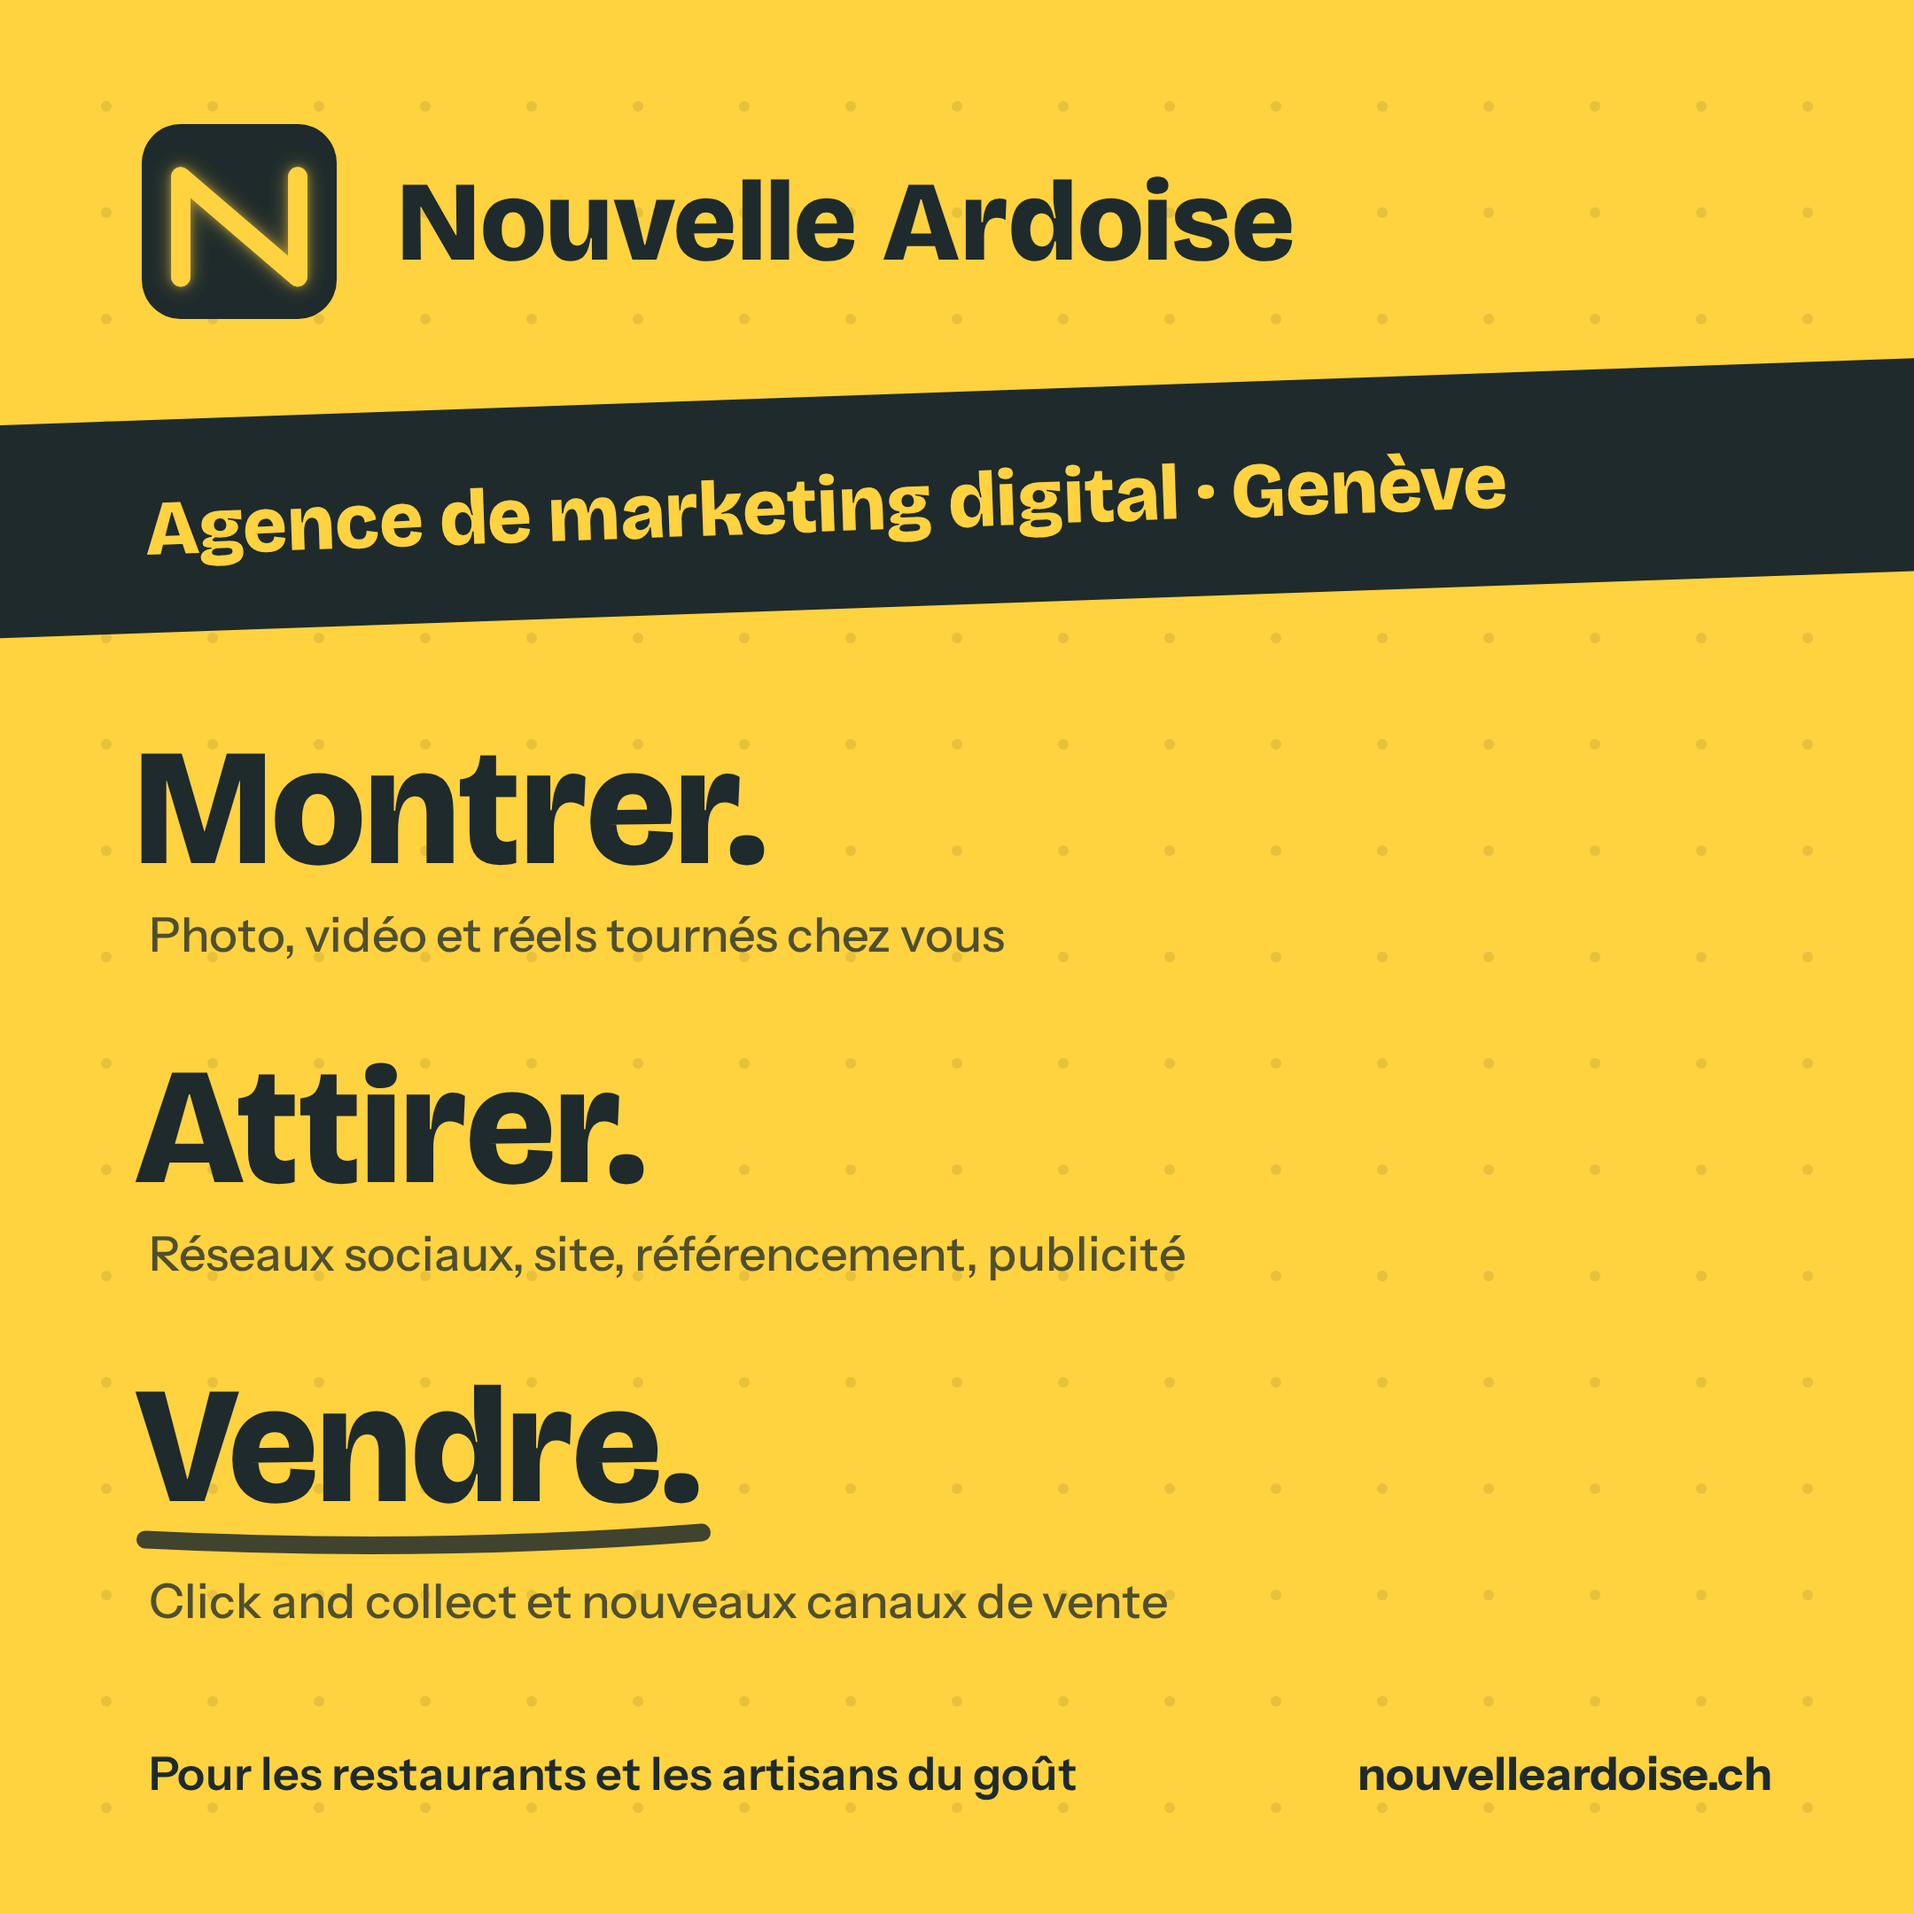
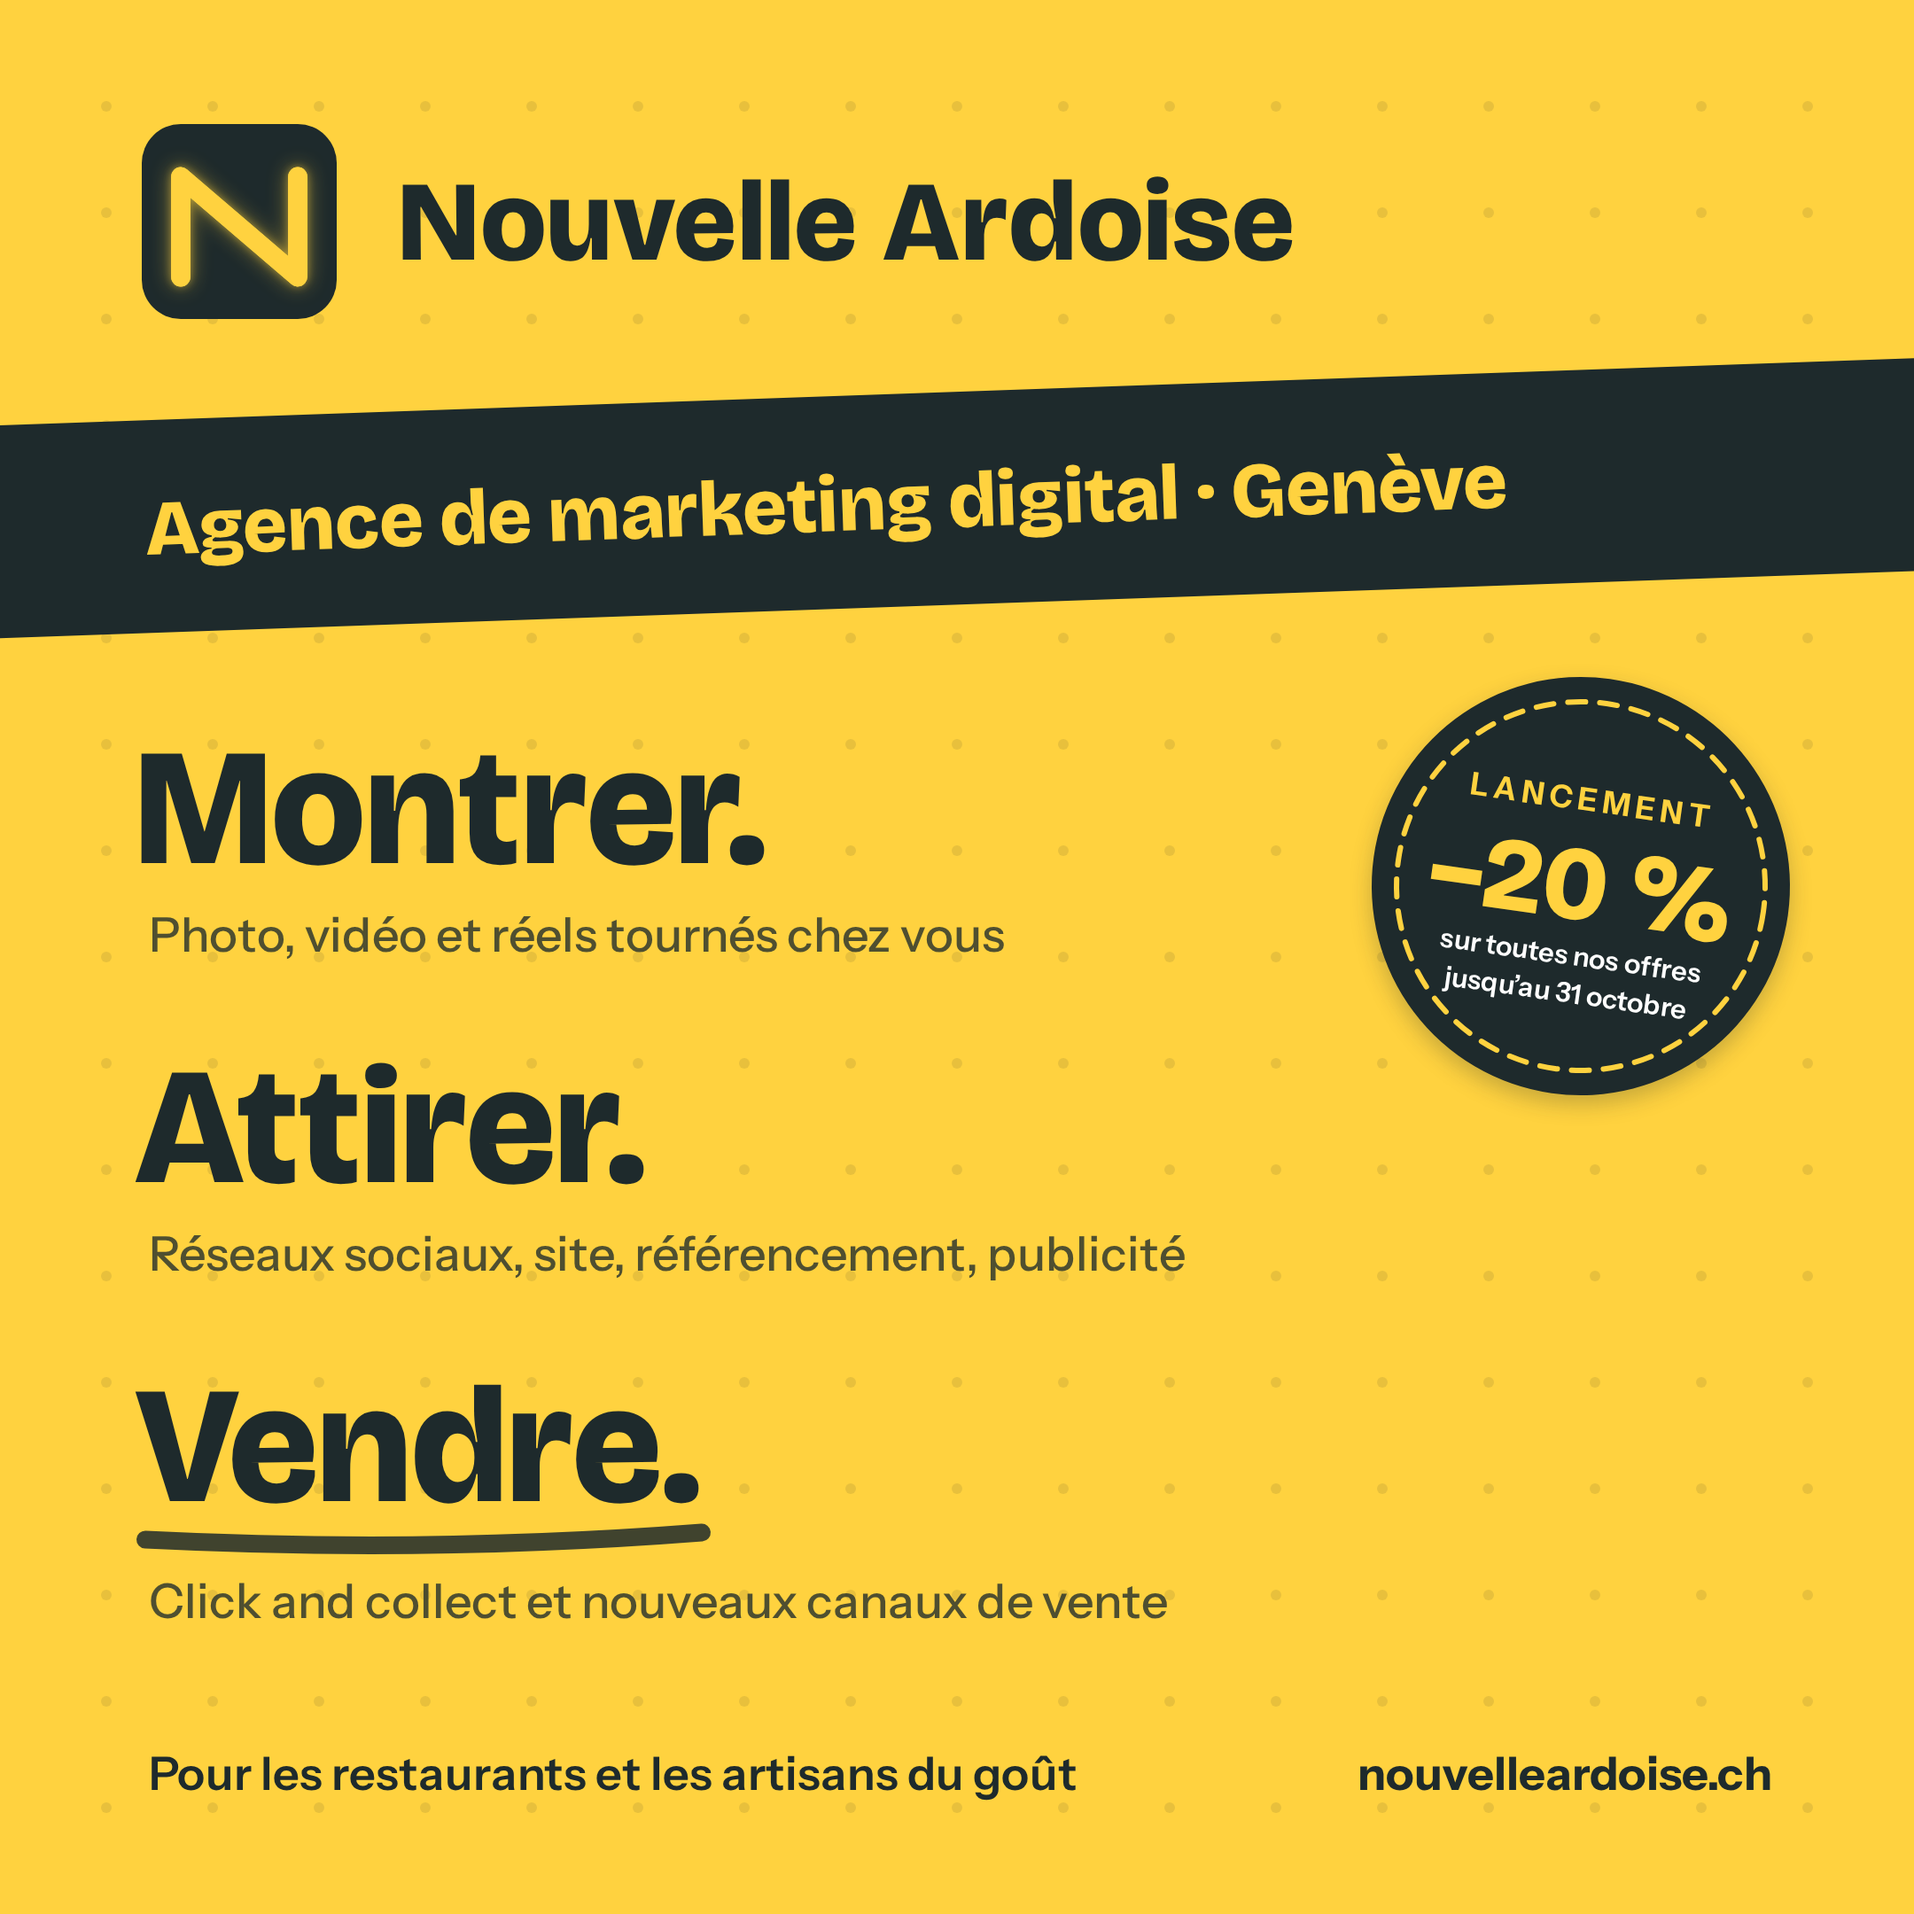
Image officielle : pastille offre de lancement –20 % jusqu'au 31 octobre
Claude-Session: https://claude.ai/code/session_01Na8BpyZzW6x6KHtXhCHeFX

Changed region(s): [[0.7134, 0.3412, 0.9616, 0.5894]]

diff --git a/marketing/kit-lancement/_sources/presentation.html b/marketing/kit-lancement/_sources/presentation.html
@@ -61,7 +61,7 @@ function dessiner() {
   const haut = yb + (compact ? 120 : 140) + (compact ? 50 : 80);
   const bas = H - (compact ? 130 : 170);
   const bloc = (bas - haut) / 3;
-  const taille = Math.min(compact ? 112 : 170, bloc * 0.52);
+  const taille = Math.min(compact ? 112 : quoi === 'story' ? 150 : 170, bloc * 0.52);
   MOTS.forEach((m, i) => {
     const t0 = haut + i * bloc;
     const yMot = t0 + taille * 0.82;
@@ -75,6 +75,25 @@ function dessiner() {
     police(compact ? 27 : 33, 500, 'Instru'); c.fillStyle = 'rgba(30,42,44,0.78)';
     c.fillText(SOUS[i], 84, yMot + (compact ? 50 : 66) + (i === 2 ? 16 : 0));
   });
+
+  // l'offre de lancement : une pastille ronde, posée comme un autocollant à droite de « Montrer. »
+  {
+    const r = compact ? 118 : 140;
+    const cx = L - 70 - r, cy = haut + bloc * (compact ? 0.5 : 0.42);
+    c.save(); c.translate(cx, cy); c.rotate(0.14);
+    c.shadowColor = 'rgba(30,42,44,0.25)'; c.shadowBlur = 24; c.shadowOffsetY = 10;
+    c.fillStyle = ARDOISE; c.beginPath(); c.arc(0, 0, r, 0, 7); c.fill();
+    c.shadowColor = 'transparent';
+    c.setLineDash([10, 8]); c.lineWidth = 3; c.strokeStyle = JAUNE;
+    c.beginPath(); c.arc(0, 0, r - 14, 0, 7); c.stroke(); c.setLineDash([]);
+    c.textAlign = 'center'; c.textBaseline = 'alphabetic'; c.fillStyle = JAUNE;
+    police(r * 0.15, 700, 'Instru'); c.letterSpacing = '3px'; c.fillText('LANCEMENT', 0, -r * 0.36); c.letterSpacing = '0px';
+    police(r * 0.5); c.fillText('–20 %', 0, r * 0.16);
+    police(r * 0.13, 600, 'Instru'); c.fillStyle = '#fff';
+    c.fillText('sur toutes nos offres', 0, r * 0.38);
+    c.fillText('jusqu’au 31 octobre', 0, r * 0.56);
+    c.restore();
+  }
 
   // pied : pour qui, et l'adresse
   police(compact ? 26 : 30, 600, 'Instru'); c.fillStyle = ARDOISE; c.textAlign = 'left'; c.textBaseline = 'alphabetic';
